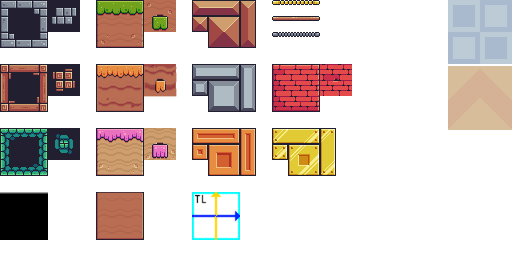
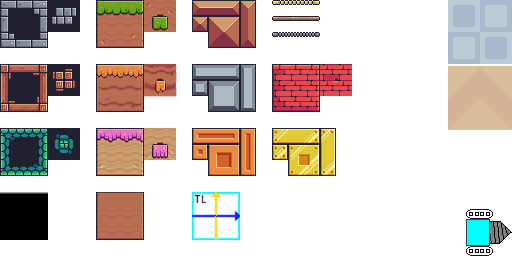
atlas updates and cleanup

Changed region(s): [[0.9062, 0.8125, 1.0, 1.0]]

diff --git a/Demos/Deeper/DeeperScene.cs b/Demos/Deeper/DeeperScene.cs
@@ -39,7 +39,7 @@ internal class DeeperScene : Scene
 		};
 
 		var atlas = LoadTexture("./Assets/Atlas.png");
-		SetTextureFilter(atlas, TextureFilter.TEXTURE_FILTER_BILINEAR);
+		SetTextureFilter(atlas, TextureFilter.TEXTURE_FILTER_POINT);
 		SetTextureWrap(atlas, TextureWrap.TEXTURE_WRAP_CLAMP);
 		
 		//	static background texture		
@@ -67,11 +67,10 @@ internal class DeeperScene : Scene
 			}
 		}
 
-		//	players vehicle
-		
+		//	players vehicle		
 		vehicle = new Sprite(atlas, new(TileSize * xTiles / 2, 0), TileSize, TileSize)
 		{
-			Frame = new Rectangle(192, 192, TileSize, TileSize),
+			Frame = new Rectangle(464, 208, TileSize, TileSize),
 			Pivot = new(0.5f, 1f),
 			Anchor = new(0.5f, 1f),
 		};
@@ -100,8 +99,8 @@ internal class DeeperScene : Scene
 
 	public override void OnUpdate(float ellapsedSeconds)
 	{
-		const float Speed = TileSize * 15;
 		//	update vehicle position
+		const float Speed = TileSize * 15;
 		var speed = Speed * ellapsedSeconds;
 		vehicle.Position += IsKeyDown(KeyboardKey.KEY_RIGHT) ? new(speed, 0f) :
 							IsKeyDown(KeyboardKey.KEY_LEFT) ? new(-speed, 0f) :

diff --git a/Engine/Components/Sprite.cs b/Engine/Components/Sprite.cs
@@ -32,7 +32,7 @@ public class Sprite : Container, IDrawable
 	}
 
 	public Sprite(Texture texture, Vector2 position) : this(texture)
-	{		
+	{
 		Position = position;
 	}
 
@@ -107,7 +107,7 @@ public class Sprite : Container, IDrawable
 		set
 		{
 			frame = value;
-			if(width==0) width = (int)frame.width;
+			if (width == 0) width = (int)frame.width;
 			if (height == 0) height = (int)frame.height;
 			UpdateDestinationRectangle();
 		}
@@ -174,7 +174,7 @@ public class Sprite : Container, IDrawable
 	/// </summary>
 	public virtual void Draw()
 	{
-		Raylib.DrawTexturePro(Texture, Frame, dst, origin, Angle, Tint);		
+		Raylib.DrawTexturePro(Texture, Frame, dst, origin, Angle, Tint);
 	}
 
 	private void UpdateDestinationRectangle()

diff --git a/Engine/Components/TilingSprite.cs b/Engine/Components/TilingSprite.cs
@@ -15,6 +15,6 @@ public class TilingSprite : Sprite, IDrawable
 	/// </summary>
 	public override void Draw()
 	{
-		Raylib.DrawTextureTiled(Texture, Frame, Dst, Origin, Angle, 1, Tint);
+		Raylib.DrawTextureTiled(Texture, Frame, Dst, Origin, Angle, 1f, Tint);
 	}
 }
